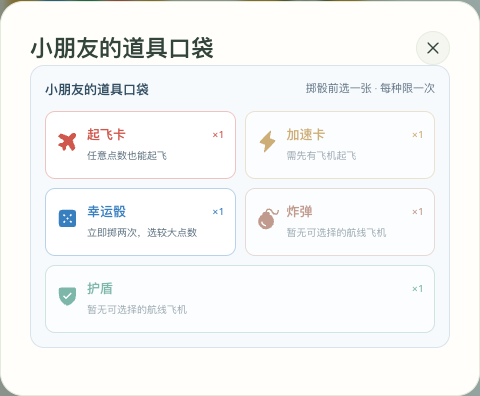
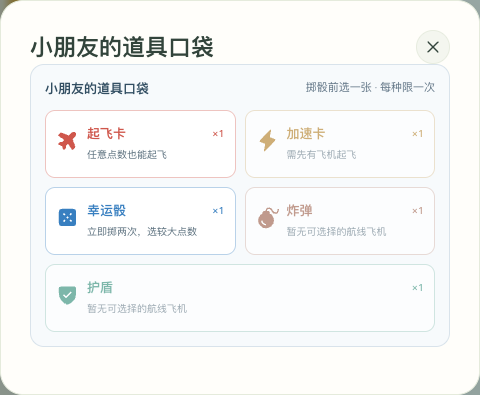
docs: document coaching, refresh screenshots and record live verification (#20)

diff --git a/docs/QA-COACH.md b/docs/QA-COACH.md
@@ -1,0 +1,26 @@
+# 语音教练验收（#20）
+
+日期：2026-10-24。范围：同屏对局中的推荐预览、连续比较与明确确认；桌面 Chrome 与手机视口。应用提交 [903b786](https://github.com/zkevindev/flytogether/commit/903b786)，服务端切片 [1eba814](https://github.com/zkevindev/flytogether/commit/1eba814)。
+
+## 覆盖与证据
+
+| 路径 | 验证方式 | 结果 |
+| --- | --- | --- |
+| 推荐、换选、安全比较、回看 | Go 与实际 Chrome；真实随机骰子 | 只改变建议，不改变棋局、库存、点数、版本或历史 |
+| 明确确认 | 实际页面与真实语音 | 被建议的飞机抵达同一落点，只提交一次移动 |
+| 过期与多输入 | Go、双页浏览器、实际 API | 相同版本更换提案后旧 ID 被拒绝；手动选子取消建议，双页同步 |
+| 生命周期 | Go 与页面 | 暂停、结束、新局和语音断开清除建议；旧指代不能重新确认 |
+| 纯点击与手机 | 无麦克风权限的 Chrome；390×844 | 推荐与比较可用，2/4 架候选时不横向溢出 |
+| 真实灵矽链路 | 合成 WAV→真实采集/AudioWorklet→Go→灵矽 | 前四句保留版本2，“就它”才变3；后续否定不写入 |
+
+当前教练截图：[桌面](images/current/coach-desktop.png)、[手机](images/current/coach-mobile.png)。截图来源、视口、哈希和应用版本见 [清单](images/current/manifest.json)。
+
+## 试玩中发现并处理
+
+- 中等，内容：模型曾把当前普通一步的风险估算扩大为“没有风险、不会被撞”。建议原文和每轮指令改为相对比较，强调后续走棋和道具仍会改变局面；真实回复回归检查绝对安全措辞。有限测试不保证模型在所有输入下都不犯错。
+- 测试脚本修正：公网取消后的检查要等待请求返回，不能在请求尚未完成时判定取消失败；文案检查要区分“不保证安全”和“保证安全”。这些是验收脚本时序与语义问题。
+- 截图计时：短骰子弹窗使用测试时钟暂停展示计时，安装时钟必须早于应用初始化，避免改变已运行场景的时基。页面截图不注入棋局、固定点数或连接状态，并检查飞机编号仍在棋盘范围内。
+
+本范围内未遗留已确认的阻断问题。真实家长和孩子完整对局、真实手机、多人同时说话、噪声/回声和长时间监听继续由 #3 验收；缩小视口与合成音频不替代这些测试。
+
+复跑命令见 [语音验收](QA-VOICE.md)；设计与失效规则见 [架构文档](ARCHITECTURE.md)。

diff --git a/docs/ARCHITECTURE.md b/docs/ARCHITECTURE.md
@@ -537,3 +537,14 @@ Room 提供 `name` 和 `status`：`waiting → playing ↔ paused → ended`；w
 主持人指令补充本次新事件，同时写入服务端系统上下文；每次替换上次临时上下文，避免旧提示累积。只有本轮 `rolled` 才可播报新点数，不能把保留在状态中的历史 dice 说成刚掷出的结果。已观察到“幸运骰”转写成“幸运头”，在明确使用指令中支持该别名，否定与询问优先走只读。
 
 客户端结束命令成功后跳转首页，失败保留棋盘并显示原因。首页继续入口仅对未完结的 playing/paused 游戏展示；正常胜利仍保留庆祝和重新准备入口。
+
+
+## 灵矽教练与连续确认（#20）
+
+Room 的 `coach` 是共享建议，包含独立提案 ID、game_id、version、player_id、一个已存在的合法 Move、说明和有限风险评估。`coach` 命令的 choice 支持 best/next/safe/previous/cancel，只改变 Room seq；不改变棋局版本、历史、飞机、骰子或库存。前端经现有游戏 WebSocket 收到提案，用已有 3D/2D 落点标记和 MovePreview 展示，播报期间也能看见预览。手动选飞机会取消服务器建议并回到原有本地预览。
+
+Go 在已合法的 Move 上作比较。普通推荐复用 BestMove；风险评估在深拷贝上实际执行候选走法，枚举每位对手普通 1～6 点的合法回应，统计能撞回这架飞机的对手/点数组合，包含本次撞机和护盾效果。安全比较先选较少受威胁的候选，再以原推荐顺序打破平手。该估计不模拟间隔回合、对手选择或道具，不是概率或必胜判断。
+
+语音“帮我选”“另一架呢”“安全一点”“刚才那个”先由服务端解析，工具输出当前提案；“就它”、明确确认及指定合法飞机才可走棋。询问和否定保持只读，取消只清预览；限定范围内的“另一架”ASR 同音误写仅在已有建议时兼容。每次提案也占用本次语音授权，不能在同一话语里先推荐再自动移动。
+
+`confirm_coach` 另校验提案 ID 和局、版本、玩家，再调用原 Move 并复用 command_id 去重。相同棋局版本下更换提案也产生新 ID，旧确认不能误用新建议。暂停、结束、新局、其他实际操作及语音断开清除建议；过期的指代确认不会降级成掷骰。纯点击可完成同样的推荐、比较、取消与确认，不依赖平台或麦克风。

diff --git a/docs/ROADMAP.md b/docs/ROADMAP.md
@@ -1,6 +1,6 @@
 # 一起飞 · 产品化路线
 
-更新：2026-10-23。跟踪：[产品化 1.0 / #17](https://github.com/zkevindev/flytogether/issues/17)、[实机与比赛交付 / #3](https://github.com/zkevindev/flytogether/issues/3)。
+更新：2026-10-24。跟踪：[产品化 1.0 / #17](https://github.com/zkevindev/flytogether/issues/17)、[实机与比赛交付 / #3](https://github.com/zkevindev/flytogether/issues/3)。
 
 本文是下一阶段计划，未勾选事项尚未交付。当前已实现能力见 [README](../README.md)，实际变更与证据见 [进展记录](PROGRESS.md)。
 
@@ -83,12 +83,16 @@
 
 | 方向 | 可交付切片 | 验收重点 |
 | --- | --- | --- |
-| 灵矽陪玩 | 教学、鼓励、解说偏好；简短庆祝和阶段提示 | 频率可调、可跳过、不抢连续对话、不编造操作结果 |
+| 灵矽陪玩 | #20 已交付版本绑定的建议预览、连续比较与明确确认；后续教学、鼓励和解说偏好 | 频率可调、可跳过、不抢连续对话、不编造操作结果 |
 | 规则与节奏 | 亲子/经典预设，说明起飞与胜利条件；根据试玩调整道具库存 | 点击、AI、语音共用 Go 规则；规则在一局内固定 |
 | 可选特殊玩法 | 再根据试玩选择天气、补给或合作目标等机制 | 清楚显示规则变化，有实际选择，不只是随机惩罚与动画 |
 | 家庭档案 | 同一浏览器记昵称、头像和历史战绩 | 建立在存档之上，可删除，不保存原始语音 |
 | 手机与可访问性 | 大触控区域、编号与颜色并用、键盘与减少动画 | 平板横竖屏可用，低性能设备可走 2D 降级 |
 | 首次加载 | 首页与 Three.js 棋盘按需加载，减少无关下载 | 对比真实首屏时间与下载大小，不只报构建文件大小 |
+
+### 已选择的陪玩切片 #20
+
+语音教练与点击入口共用 Go 的当前合法走法，推荐、换选、安全比较和回看只更新预览；明确确认才执行一次真实移动。版本变化与暂停/结束/新局/语音断开清除建议；不同提案 ID 防止同版本下确认错飞机。合作救援、人格化对手和局内任务尚未实现。
 
 ## P2：扩展产品形态
 

diff --git a/docs/QA-VOICE.md b/docs/QA-VOICE.md
@@ -75,3 +75,18 @@ QA_BASE_URL=http://127.0.0.1:8080 QA_AUDIO_FILE=/tmp/flytogether-lucky/browser-i
 ```
 
 本轮还复跑完整起飞链路（实际随机 1 点、版本 1→2→3→4）及独立灵矽 TTS，返回 107332 字节 PCM，麦克风请求为零。自然随机走棋准备后，真实网页验证撞机回库/音效与抵达撒花通过。
+
+
+## 教练建议与连续确认（#20）
+
+合成麦克风场景输入“帮我选→另一架呢→安全一点→刚才那个→就它→不要掷骰子”，通过真实 Chrome、AudioWorklet、Go 和灵矽。演示起始位置由正式选项创建，骰子真实随机；初始掷骰后版本为 2，前四句仅改变建议和可见高亮，确认后才变为 3，否定和重连不增加版本。
+
+测试曾将“另一架呢”识别为“晾衣架呢”，已在存在当前建议时限定兼容，不把无上下文的相似词当作操作。首次试听发现模型会把有限风险解释成“没有风险”，已收紧当前局势措辞与提示；真实回复回归检查推荐期间不得作绝对安全保证。它不代表所有口音、噪声和模型回复都已覆盖，也不替代真实亲子试听。
+
+```sh
+QA_BASE_URL=http://127.0.0.1:8080 npm --prefix web run test:coach:browser
+python3 scripts/voice_fixture.py --scenario coach --output-dir /tmp/flytogether-coach-fixture
+QA_BASE_URL=http://127.0.0.1:8080 QA_AUDIO_FILE=/tmp/flytogether-coach-fixture/browser-input.wav QA_SCENARIO=coach npm --prefix web run test:voice:realtime
+```
+
+点击浏览器回归不申请麦克风，验证建议与比较不改棋局、双页同步、刷新、手动覆盖、确认一次、旧 ID 拒绝、取消、暂停/继续、新局和 2/4 架可选飞机的手机布局。Go 用例另覆盖询问/否定不走棋、风险计算不改原状态、语音一次授权和断开失效。
